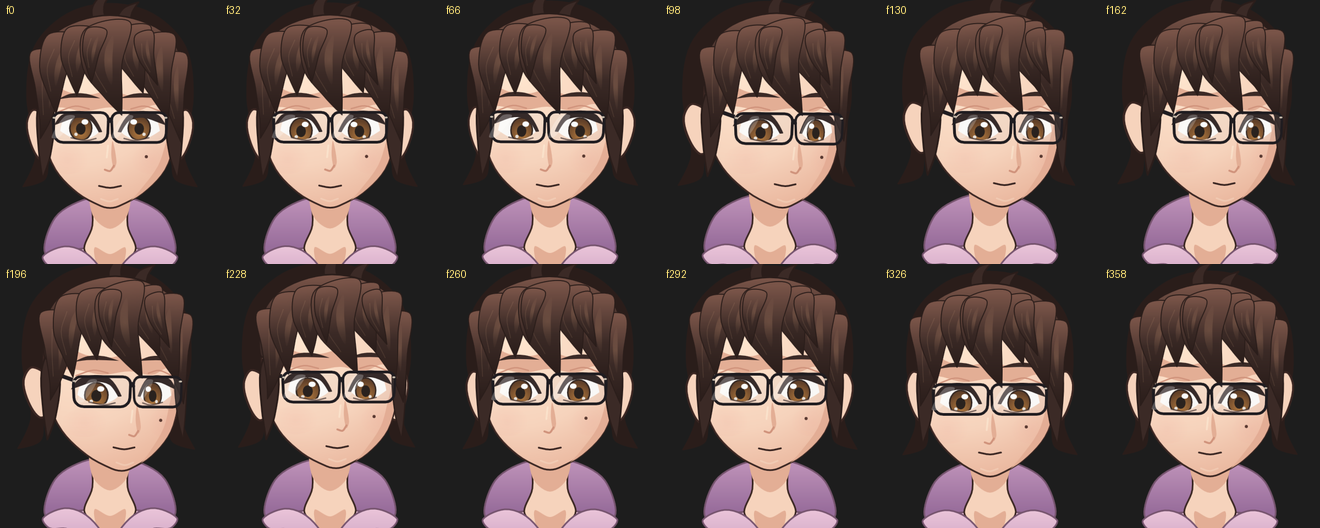
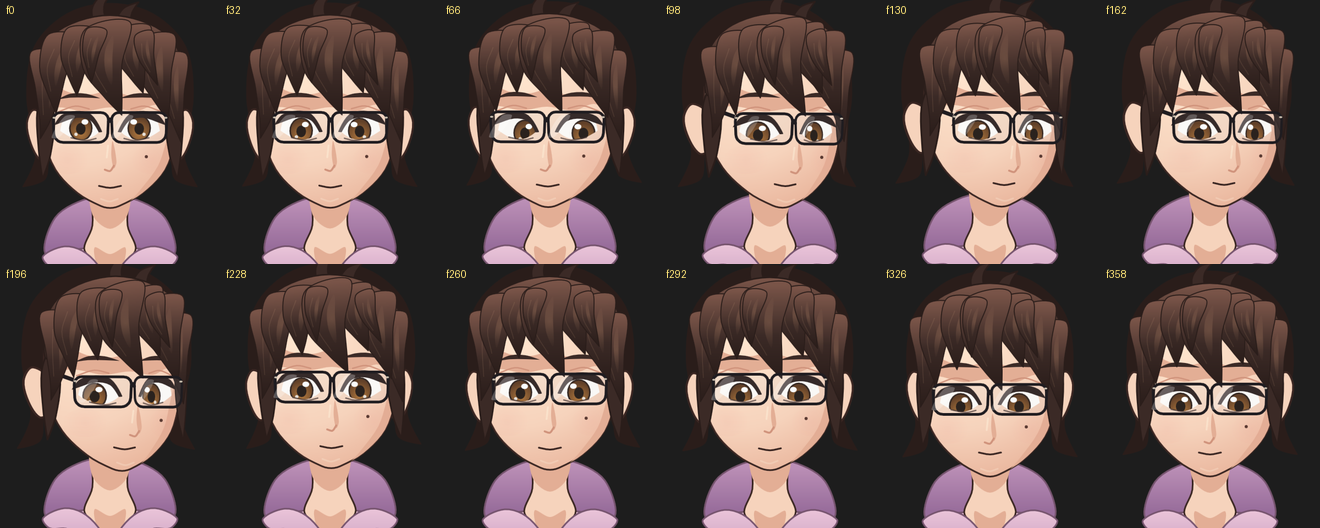
test(rive): integrated head turn after the tuning round (eyeLeadPitch in the trace)

diff --git a/rive/tools/review_avatar_turn.py b/rive/tools/review_avatar_turn.py
@@ -203,7 +203,7 @@ def turn() -> list[Path]:
 # the integrated turn: the app's own HeadMotionSolver drives the avatar, frame by frame, from the
 # trace `dart run tool/head_motion_trace.dart > rive/avatar/review/head_rig/app_trace.json`
 # (user 0.8 s -> tool glance away(0.6) 2.4 s -> user 1.4 s -> caret 1.4 s, 60 fps)
-APP_KEYS = ("yaw", "pitch", "hairLagYaw", "hairLagPitch", "eyeLeadYaw")
+APP_KEYS = ("yaw", "pitch", "hairLagYaw", "hairLagPitch", "eyeLeadYaw", "eyeLeadPitch")
 
 
 def app_turn() -> None:
